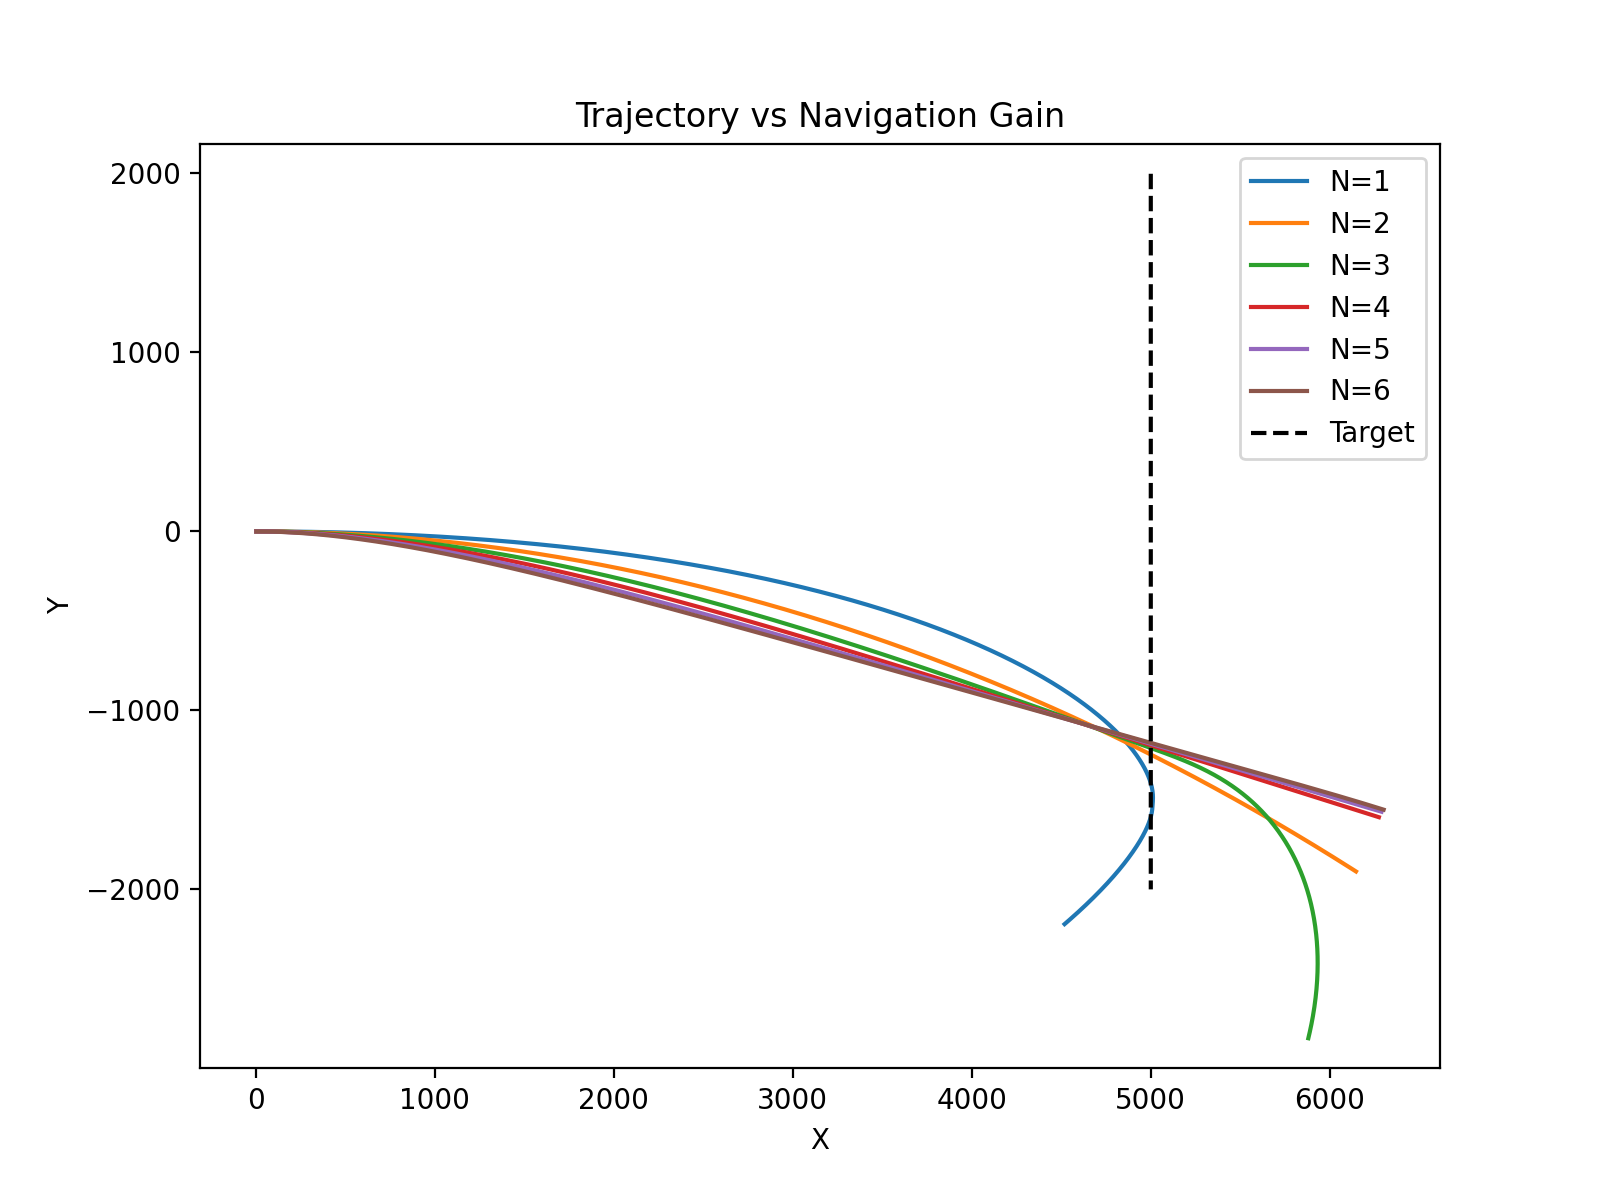
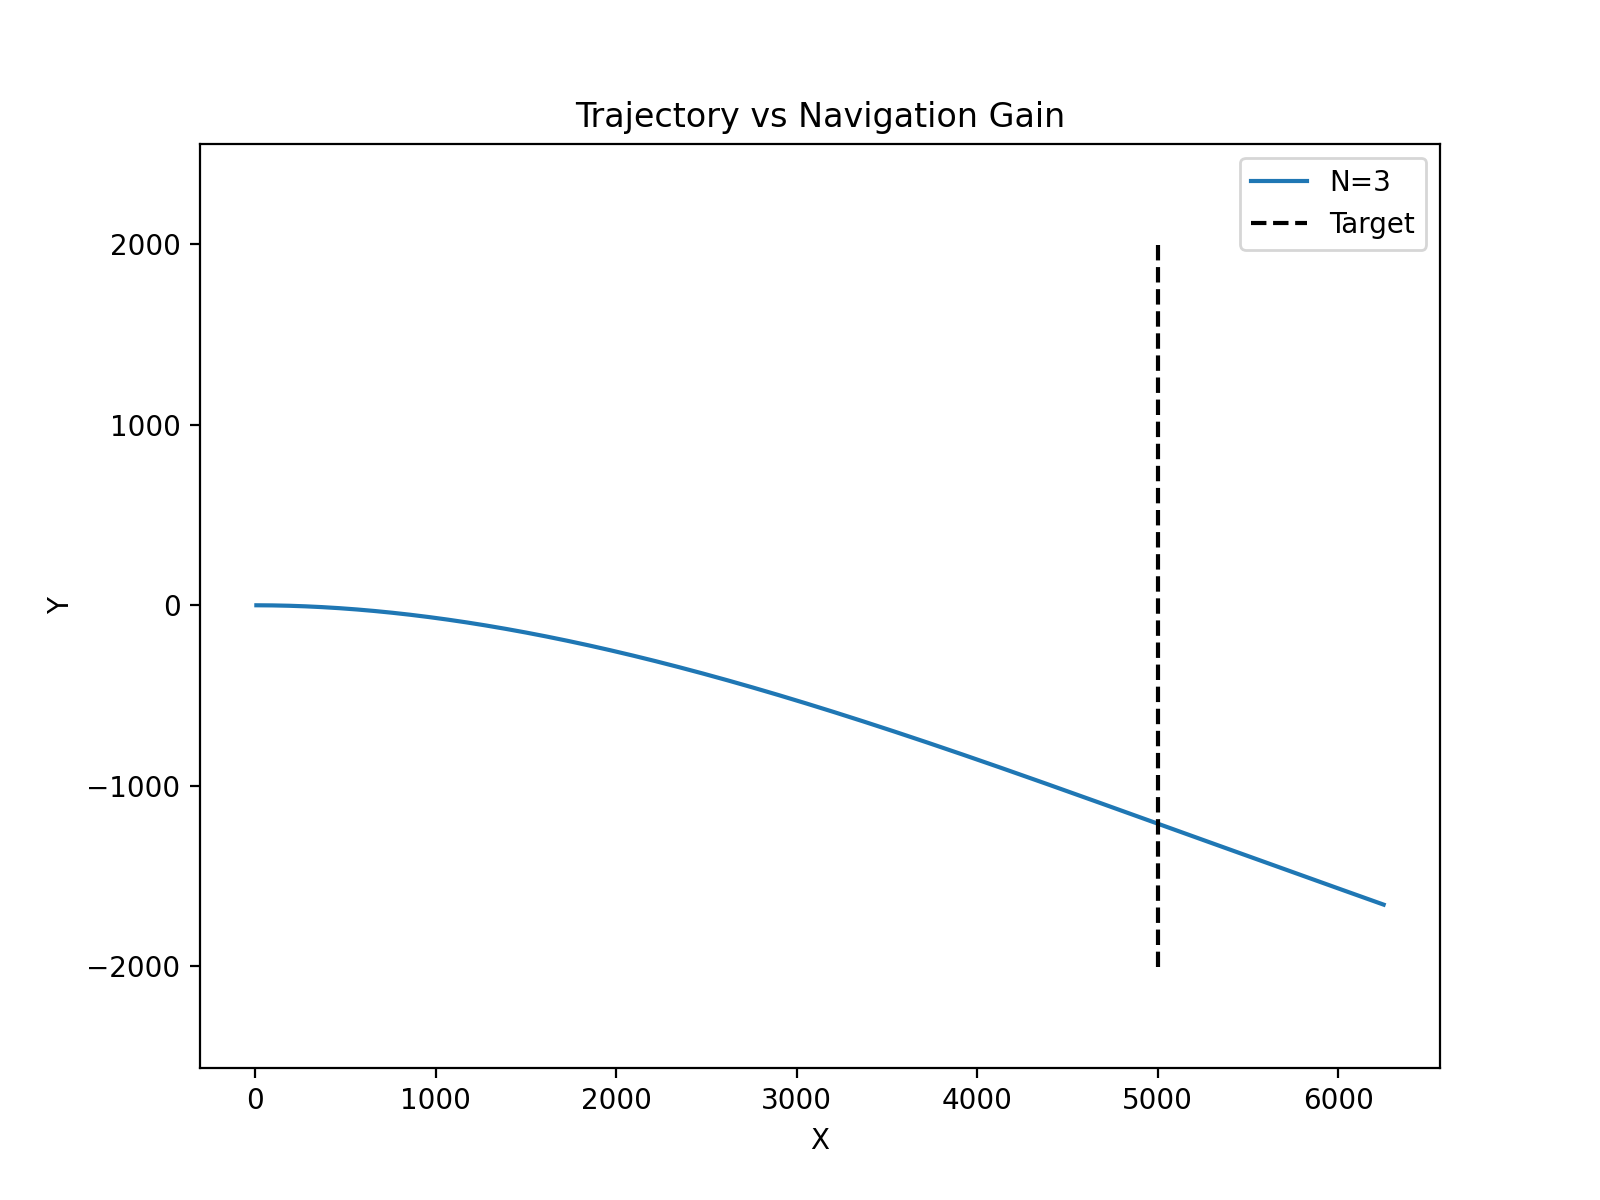
Updating Structural Verification Result

diff --git a/src/config.py b/src/config.py
@@ -1,6 +1,6 @@
 class Config:
     # 시뮬레이션 간격(s): 계산 정확도 확보를 위한 변수
-    dt = 0.01
+    dt = 0.005
 
     # 총 시뮬레이션 시간(s): 성능 판단의 타당성 확보를 위한 변수
     total_time = 20.0

diff --git a/src/main.py b/src/main.py
@@ -38,7 +38,7 @@ def run_simulation(N):
     return missile_traj, target_traj, miss_distance
 
 def main():
-    gains = [1, 2, 3, 4, 5, 6]
+    gains = [3]
     results = []
 
     plt.figure(figsize=(8,6))

diff --git a/README.md b/README.md
@@ -216,6 +216,19 @@ src/
 
 ![exp05](assets/result/exp05/Figure_1.png)
 
+| Param | PNG(Base) | PNG(Tune_1) | PNG(Tune_2) |
+| --- | --- | --- | --- |
+| **Dt** | 0.02 | 0.01 | 0.005 |
+| **TotalTime** | 20.0 | 20.0 | 20.0 |
+| **NavigationGain** | 3.0 | 3.0 | 3.0 |
+| **Vel(Missile(X),Target(Y))**| (300, -200) | (300, -200) | (300, -200) | (300, -200) |
+| **적분 함수** | RK4 | RK4 | RK4 |
+| **MissDistance** | 0.00 | 0.00 | 0.00 |
+
+- 결과 해석: Dt(0.005)에서 곡선이 아닌 직선적인 방향 전환이 관측됨
+
+![exp05](assets/result/exp05/Figure_2.png)
+
 | Param | PNG(Base) | PNG(Tune_1) | PNG(Tune_2) | PNG(Tune_3) | PNG(Tune_4) | PNG(Tune_5) |
 | --- | --- | --- | --- | --- | --- | --- |
 | **Dt** | 0.01 | 0.01 | 0.01 | 0.01 | 0.01 | 0.01 |
